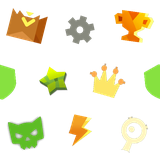
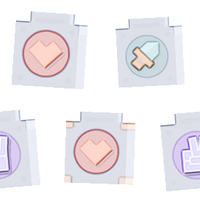
feat(ui): 主界面背景换成游戏内「方块徽章」（大元素），与横幅里的小元素拉开层次
- 上一版主界面背景用的 9 个小图标里有部分不是游戏内素材（HUD 按钮 / 特效图）；
  换成游戏安装包里的方块徽章（`game_images/gp`，取 0101 / 0102 / 0201 / 0301：
  红 V 形箭头 / 宝石+扳手 / 紫色纹章；选「最早」的那几级，只有方框 + 圆 + 图形）。
- 构图回到「方块构图」：主界面背景 = 大元素（徽章 72-84px，200×200 贴片，2×2 交错
  网格，其中一个贴接缝、平铺后自动拼回完整方块）；「猫生重开」横幅按钮里仍是小元素
  （活动图标 34-48px），那张 activity_pattern.png 没有改动。
- 徽章是一整块不透明方块，直接染成单色会变成实心方块：改成两层 alpha —— 方块面板
  压到很浅（0.22），内部线条（圆盘 / 图形 / 边角装饰的边缘，Sobel）保持实心，
  水印里既有方块底，凑近又能认出圆盘里的图案。
- 透明度（浅 0.07 / 深 0.10）、ColorFilter(srcIn)、无缝做法（3×3 画布裁中间）都不变。
- 素材与生成脚本放在 assets/patterns/src/（子目录，不打进安装包），生成器同时输出
  浅色/深色、真实透明度与「调大一号」的预览图到 build/pattern_preview/。

diff --git a/lib/main.dart b/lib/main.dart
@@ -807,7 +807,7 @@ class _MainMenuScreenState extends State<MainMenuScreen> {
   }
 
   /// 一级分类：猫生重开（置顶）> 个人功能 > 帮派功能 > 数据查询 > 通用设置
-  /// 主界面背景：游戏内图标贴片（宝箱/齿轮/奖杯/星星/皇冠/盾牌/猫头骨/闪电/放大镜）
+  /// 主界面背景：游戏内**方块徽章**贴片（大元素）；「猫生重开」横幅里是活动图标（小元素）
   static const String _gamePattern = 'assets/patterns/game_pattern.png';
   static const String _activityPattern =
       'assets/patterns/activity_pattern.png';
@@ -989,7 +989,7 @@ class _MainMenuScreenState extends State<MainMenuScreen> {
       appBar: AppBar(title: const Text('CatsKit'), centerTitle: true),
       body: Stack(
         children: <Widget>[
-          // 周期性图案背景（游戏内图标贴片，低透明度当水印）
+          // 周期性图案背景（游戏内方块徽章贴片，低透明度当水印）
           Positioned.fill(
             child: DecoratedBox(
               decoration: BoxDecoration(

diff --git a/assets/patterns/src/generate_pattern.py b/assets/patterns/src/generate_pattern.py
@@ -1,69 +1,84 @@
 # -*- coding: utf-8 -*-
 """主界面周期性背景贴片生成器（离线跑一次即可，输出已提交到仓库）
 
-素材：`assets/patterns/src/*.png` —— 从游戏安装包解出的图标（宝箱 / 齿轮 / 奖杯 /
-      星星 / 皇冠 / 盾牌 / 猫头骨 / 闪电 / 放大镜），原始出处见 assets/patterns/README.md
-输出：`assets/patterns/game_pattern.png`（160×160 无缝贴片，21KB 左右）
+素材：`assets/patterns/src/badge_*.png` —— 游戏安装包里的 **方块徽章**
+（`D:\\projects\\cats\\extract\\game_images\\gp`，取 0101 / 0102 / 0201 / 0301 四张：
+红 V 形箭头 / 宝石+扳手 / 紫色纹章），刻意选最早的那几级：只有方框 + 圆 + 图形，
+没有后面的花纹与金边。
 
-为什么只保留 alpha：Flutter 侧用 `ColorFilter.mode(黑/白, BlendMode.srcIn)` 把贴片
-染成单色水印，所以贴片里的颜色其实用不到，只有形状（alpha）有意义。
+输出：`assets/patterns/game_pattern.png`
+      —— 200×200 无缝贴片，**大元素**（方块徽章 72-84px）；
+      「猫生重开」横幅按钮里的 `activity_pattern.png` 是**小元素**（活动图标 34-48px），
+      一大一小形成层次感（本脚本不动那张图）。
 
-无缝做法：把 9 个图标在 3×3 的大画布上重复画一遍，再裁中间那块 —— 跨边界的图标
-会被自动「绕回」，平铺时看不到接缝。
+关键处理：徽章原本是一整块不透明方块，直接染成单色就是一坨实心方块，看不出内容。
+所以拆成两层 alpha：
+  · 方块面板本体 → 很浅（PANEL_ALPHA ≈ 0.22），平铺后是一层若隐若现的方块底；
+  · 内部线条（圆盘 / 图形 / 边角装饰的**边缘**）→ 实心，凑近看能认出红 V、宝石、
+    纹章等游戏图案，而且比填色更透气。
+边缘用「先轻微高斯模糊再做 Sobel，取三通道最大梯度」得到，避免噪点。
+
+无缝做法：按 3×3 重复画在大画布上，再裁中间一块 —— 跨边界的徽章会自动「绕回」。
 
 用法：
     python assets/patterns/src/generate_pattern.py
-预览图输出到 build/pattern_preview/（含浅色/深色按真实透明度合成的效果图）。
+预览图输出到 build/pattern_preview/（按真实 opacity + ColorFilter(srcIn) 合成）。
 """
 import os
-from PIL import Image, ImageDraw
+import numpy as np
+from PIL import Image, ImageDraw, ImageFilter
 
 HERE = os.path.dirname(os.path.abspath(__file__))
 ROOT = os.path.dirname(os.path.dirname(os.path.dirname(HERE)))   # 仓库根目录
 OUT = os.path.join(ROOT, "assets", "patterns", "game_pattern.png")
 PREVIEW_DIR = os.path.join(ROOT, "build", "pattern_preview")
 
-TILE = 160                                             # 贴片边长（像素）
-BOOST = (30, 255)                                      # alpha 对比度提升区间
+TILE = 200                     # 贴片边长（像素）
+PANEL_ALPHA = 0.22             # 方块面板本体的不透明度
+EDGE_TOL = 58.0                # 边缘强度阈值（越小线条越粗）
+EDGE_BLUR = 1.3                # 求边缘前的轻微模糊（去噪）
 
-# 贴片里的 9 个位置：(中心 x, 中心 y, 目标大小, 旋转角度)
-# 每行错开半格 + 大小/角度不一，避免死板的网格感
+# 4 个摆放位置：(中心 x, 中心 y, 目标大小, 旋转角度)
+# 2×2 交错网格（第二行错开半格，其中一个贴着接缝，平铺后自动拼回完整方块）
 SLOTS = [
-    (27, 26, 42, -14),
-    (80, 30, 34, 12),
-    (133, 26, 44, -8),
-    (54, 80, 36, 18),
-    (107, 80, 44, -16),
-    (0, 82, 40, 6),        # 贴着接缝，平铺后与右边缘拼成完整图形
-    (27, 134, 44, 10),
-    (80, 132, 36, -12),
-    (133, 134, 42, 16),
+    (50, 50, 80, -4),
+    (150, 52, 72, 3),
+    (0, 150, 84, 5),
+    (100, 148, 74, -2),
 ]
+ICONS = ["badge_chevron.png", "badge_gem.png", "badge_crest.png", "badge_chevron2.png"]
 
-# 9 个图标（顺序即摆放顺序，文件名与游戏内含义的对应关系见 README）
-ICONS = [
-    "chest.png",        # 宝箱 / 奖励
-    "gear.png",         # 齿轮 / 部件与活动
-    "trophy.png",       # 奖杯 / 排行榜与联赛
-    "star.png",         # 星星 / 稀有度
-    "crown.png",        # 皇冠 / 城市之王
-    "shield.png",       # 盾牌 / 帮派
-    "skull_cat.png",    # 猫头骨 / 战斗
-    "bolt.png",         # 闪电 / 精力与速度
-    "magnifier.png",    # 放大镜 / 查车与查询
-]
+
+def edge_strength(rgb, blur=EDGE_BLUR):
+    """Sobel 边缘强度（三通道取最大），先轻微模糊去噪。"""
+    im = Image.fromarray(rgb.astype(np.uint8)).filter(ImageFilter.GaussianBlur(blur))
+    a = np.asarray(im).astype(np.float32)
+    mag = np.zeros(a.shape[:2], np.float32)
+    for c in range(3):
+        ch = a[..., c]
+        gx = np.zeros_like(ch)
+        gy = np.zeros_like(ch)
+        gx[:, 1:-1] = (ch[:, 2:] - ch[:, :-2]) / 2
+        gy[1:-1, :] = (ch[2:, :] - ch[:-2, :]) / 2
+        mag = np.maximum(mag, np.hypot(gx, gy))
+    return mag
+
+
+def to_alpha(im, panel=PANEL_ALPHA, tol=EDGE_TOL):
+    """徽章 → 水印 alpha：方块面板浅 + 内部线条实心（线条只出现在方块范围内）。"""
+    a = np.asarray(im.convert("RGBA")).astype(np.float32)
+    shape = (a[..., 3] > 128).astype(np.float32)
+    v = np.maximum(np.clip(edge_strength(a[..., :3]) / tol, 0, 1), panel * shape)
+    out = im.convert("RGBA")
+    out.putalpha(Image.fromarray((np.clip(v * shape, 0, 1) * 255).astype(np.uint8), "L"))
+    return out
 
 
 def prep_icon(path, size, angle):
-    """裁到 alpha 外框 → 提升 alpha 对比（去掉毛边光晕）→ 旋转 → 缩放到目标大小。"""
-    im = Image.open(path).convert("RGBA")
+    im = to_alpha(Image.open(path))
     bbox = im.getchannel("A").getbbox()
     if bbox:
         im = im.crop(bbox)
-    im.putalpha(im.getchannel("A").point(
-        lambda v: 0 if v <= BOOST[0]
-        else min(255, int((v - BOOST[0]) * 255 / (BOOST[1] - BOOST[0])))
-    ))
     im = im.rotate(angle, resample=Image.BICUBIC, expand=True)
     w, h = im.size
     s = size / max(w, h)
@@ -72,8 +87,7 @@ def prep_icon(path, size, angle):
 
 def build_tile():
     canvas = Image.new("RGBA", (TILE * 3, TILE * 3), (0, 0, 0, 0))
-    for slot, name in zip(SLOTS, ICONS):
-        cx, cy, size, angle = slot
+    for (cx, cy, size, angle), name in zip(SLOTS, ICONS):
         icon = prep_icon(os.path.join(HERE, name), size, angle)
         for dx in (-TILE, 0, TILE):
             for dy in (-TILE, 0, TILE):
@@ -82,11 +96,12 @@ def build_tile():
     return canvas.crop((TILE, TILE, TILE * 2, TILE * 2))
 
 
-def render_preview(tile, w, h, dark):
+def render_preview(tile, w, h, dark, opacity=None):
     """模拟 Flutter 的 DecorationImage(repeat, opacity, colorFilter srcIn)。"""
     base = (18, 18, 18) if dark else (250, 249, 252)
     tint = (255, 255, 255) if dark else (0, 0, 0)
-    opacity = 0.10 if dark else 0.07
+    if opacity is None:
+        opacity = 0.10 if dark else 0.07
     out = Image.new("RGB", (w, h), base)
     px = out.load()
     ta = tile.getchannel("A")
@@ -104,7 +119,6 @@ def mock_menu(img, dark):
     d = ImageDraw.Draw(img, "RGBA")
     w, h = img.size
     d.rectangle([0, 0, w, 56], fill=(255, 255, 255, 235) if not dark else (30, 30, 30, 235))
-    d.text((16, 20), "CatsKit", fill=(20, 20, 20) if not dark else (235, 235, 235))
     d.rounded_rectangle([20, 84, w - 20, 208], 16,
                         fill=(233, 30, 99, 220) if not dark else (190, 24, 93, 220))
     y = 232
@@ -125,4 +139,7 @@ if __name__ == "__main__":
         p = render_preview(tile, 420, 700, dark)
         p.save(os.path.join(PREVIEW_DIR, f"{name}.png"))
         mock_menu(p, dark).save(os.path.join(PREVIEW_DIR, f"{name}_ui.png"))
+        # 备选透明度（大一号），方便对比后决定
+        render_preview(tile, 420, 700, dark, 0.10 if not dark else 0.13).save(
+            os.path.join(PREVIEW_DIR, f"{name}_strong.png"))
     print("预览图 →", PREVIEW_DIR)

diff --git a/assets/patterns/README.md b/assets/patterns/README.md
@@ -1,49 +1,60 @@
 # 周期性图案贴片
 
-界面里用的两张**无缝平铺**背景贴片，都由离线脚本从游戏素材生成（不需要联网）：
+界面里用的两张**无缝平铺**背景贴片，都由离线脚本从游戏素材生成（不需要联网）。
+一大一小、刻意做出层次：
 
-| 文件 | 用途 | 素材 | 生成方式 |
-|---|---|---|---|
-| `game_pattern.png` (160×160) | **主界面背景**（低透明度水印） | `src/*.png`（游戏内图标：宝箱 / 齿轮 / 奖杯 / 星星 / 皇冠 / 盾牌 / 猫头骨 / 闪电 / 放大镜） | 9 个图标缩放 34-44px → 旋转 -16°~18° → 每行错开半格摆放（其中一个贴接缝，平铺后自动拼回完整图形） |
-| `activity_pattern.png` (160×160) | 「猫生重开」横幅按钮背景 | `assets/cats_icons/*.png`（活动图标） | 取 废铁 / 大奖赛 / 全明星 / 齿轮 四个图标 → 缩放 34-48px → 旋转 -20°/18°/8°/-14° → 斜向摆放 |
+| 文件 | 用途 | 元素 | 素材 | 生成方式 |
+|---|---|---|---|---|
+| `game_pattern.png` (200×200) | **主界面背景**（低透明度水印） | **大元素**：方块徽章 72-84px ×4 | `src/badge_*.png`（游戏内方块徽章 0101 / 0102 / 0201 / 0301） | 方块面板压到很浅 + 内部线条（圆盘/图形/边角装饰的**边缘**）实心 → 2×2 交错网格摆放 |
+| `activity_pattern.png` (160×160) | 「猫生重开」横幅按钮背景 | **小元素**：活动图标 34-48px ×4 | `assets/cats_icons/*.png`（废铁 / 大奖赛 / 全明星 / 齿轮） | 缩放 → 旋转 -20°/18°/8°/-14° → 斜向摆放 |
 
 两张图都是**单块贴片**，用法是在 Flutter 里
 `DecorationImage(repeat: ImageRepeat.repeat)` 平铺，靠 `opacity` 控制强弱，
-所以不需要出大图（每张约 20KB）。主界面的透明度在 `lib/main.dart` 的
+所以不需要出大图（每张 20-35KB）。主界面的透明度在 `lib/main.dart` 的
 `_gamePattern` 用法处（浅色 0.07 / 深色 0.10，配 `ColorFilter(srcIn)` 染成黑/白）。
 
 ## 无缝做法
 
 把贴纸按 3×3 重复画在大画布上，再裁中间一块 —— 跨边界的贴纸会被正确「绕回」，
-平铺时看不到接缝。
+平铺时看不到接缝（`game_pattern` 里左下那块就贴在接缝上，平铺后自动拼成完整方块）。
 
-## 主界面图标贴片（重新生成）
+## 主界面方块徽章贴片（重新生成）
 
 ```bash
 python assets/patterns/src/generate_pattern.py
 ```
 
-脚本读 `src/` 里的 9 张图标 → 输出 `game_pattern.png`，并把**按真实透明度合成**的
-预览图写到 `build/pattern_preview/`（`light.png` / `dark.png` 是纯图案，
-`*_ui.png` 叠了个粗略的主界面做对照），改完看一眼预览图即可。
+脚本读 `src/badge_*.png` → 输出 `game_pattern.png`，并把**按真实透明度合成**的
+预览图写到 `build/pattern_preview/`：
 
-素材来源（游戏安装包解出的图标，`D:\projects\cats\extract\game_images\icons_split`）：
+- `light.png` / `dark.png`：纯图案（浅色 0.07 / 深色 0.10）
+- `light_ui.png` / `dark_ui.png`：叠了个粗略主界面（标题 + 置顶横幅 + 5 个按钮）做对照
+- `light_strong.png` / `dark_strong.png`：透明度调大一号（0.10 / 0.13），用来判断
+  「要不要更明显一点」
 
-| `src/` 文件名 | 原文件名 | 游戏内含义 |
+**为什么不是直接把徽章当贴图**：徽章是一整块不透明方块，直接染成单色就是一坨实心
+方块，看不出内容。所以拆成两层 alpha：
+
+- 方块面板本体 → 浅（`PANEL_ALPHA = 0.22`），平铺后是一层若隐若现的方块底；
+- 内部线条 → 实心，用「先轻微高斯模糊再做 Sobel，取三通道最大梯度」得到边缘
+  （`EDGE_TOL = 58`、`EDGE_BLUR = 1.3`），比填色透气，凑近能认出圆盘里的红 V、
+  宝石、纹章等图案。
+
+素材来源（游戏安装包解出的方块徽章，`D:\projects\cats\extract\game_images\gp`，
+文件名 `0?0?.png` = 家族 01/02/03 × 等级 01-07，刻意选最早的那几级：只有方框 + 圆 +
+图形，没有后面的花纹与金边）：
+
+| `src/` 文件名 | 原文件名 | 内容 |
 |---|---|---|
-| `chest.png` | `common_icons_icon216_125x99.png` | 宝箱（奖励） |
-| `gear.png` | `common_icons_icon263_137x135.png` | 齿轮（部件 / 活动） |
-| `trophy.png` | `common_icons_icon298_149x110.png` | 奖杯（排行榜 / 联赛） |
-| `star.png` | `common_icons_icon327_150x150.png` | 星星（稀有度） |
-| `crown.png` | `common_settings_icon023_88x74.png` | 皇冠（城市之王） |
-| `shield.png` | `common_icons_icon303_92x108.png` | 盾牌（帮派） |
-| `skull_cat.png` | `common_fx_icon048_96x84.png` | 猫头骨（战斗） |
-| `bolt.png` | `common_icons_icon044_75x106.png` | 闪电（精力 / 速度） |
-| `magnifier.png` | `common_hud_buttons_icon049_98x106.png` | 放大镜（查车 / 查询） |
+| `badge_chevron.png` | `0101.png` | 方块 + 圆盘 + 红 V 形箭头 |
+| `badge_chevron2.png` | `0102.png` | 同上，多了边角装饰 |
+| `badge_gem.png` | `0201.png` | 方块 + 圆盘 + 宝石/扳手十字 |
+| `badge_crest.png` | `0301.png` | 方块 + 圆盘 + 紫色纹章 |
 
 `src/` 是**子目录**：Flutter 打包资源时只列入所声明目录**本层**的文件
 （`flutter_tools/lib/src/asset.dart` 里是 `directory.listSync()`，不递归），
 所以子目录里的素材与生成脚本不会进安装包。
 
-> 贴片里的颜色其实用不到：Flutter 侧用 `ColorFilter.mode(黑/白, BlendMode.srcIn)`
-> 把整张图染成单色水印，所以**只有 alpha（形状）有意义**，换素材时更要看剪影是否好认。
+> Flutter 侧用 `ColorFilter.mode(黑/白, BlendMode.srcIn)` 把整张图染成单色水印，
+> 所以贴片里的颜色用不到 —— **只有 alpha（形状与深浅）有意义**，换素材时先看剪影/线稿
+> 好不好认。
